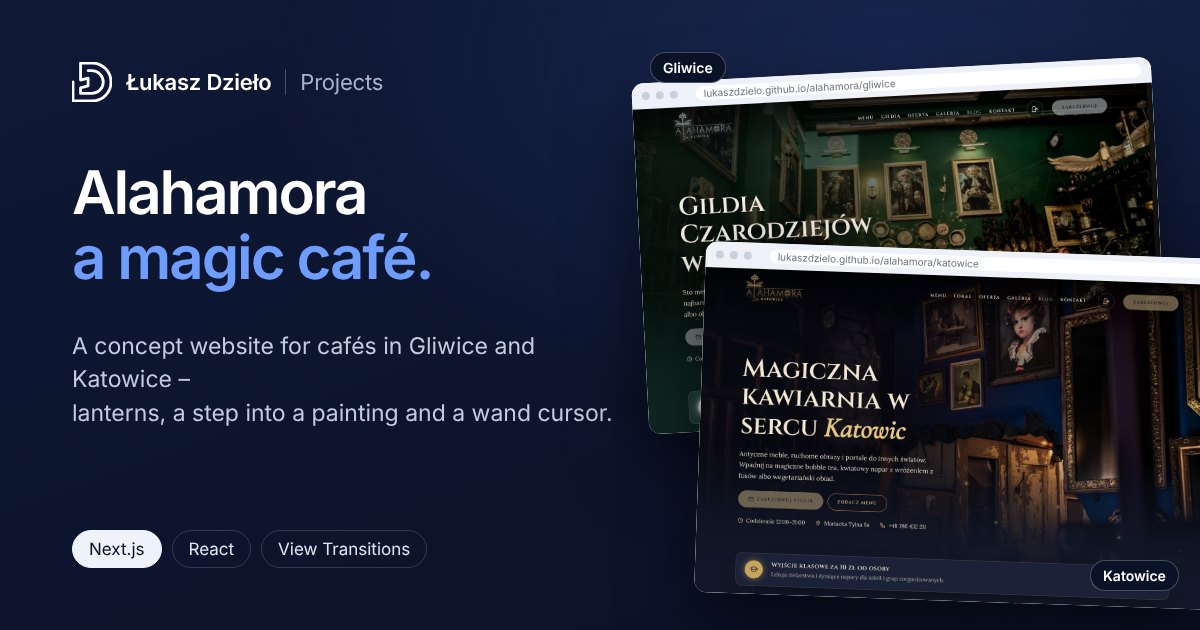
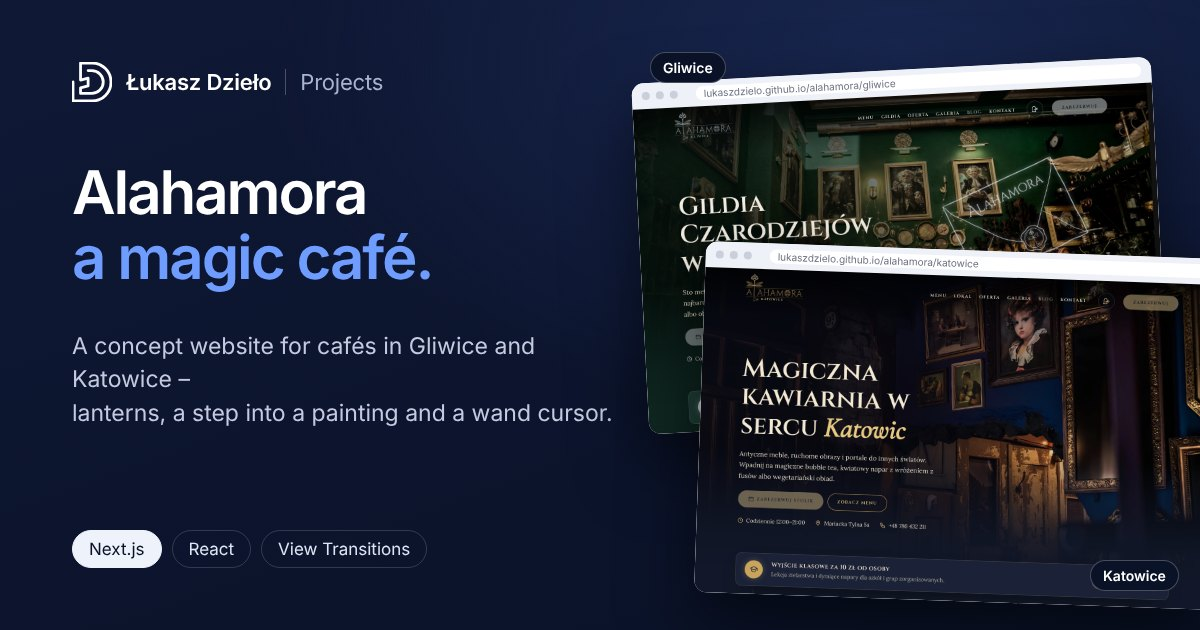
Alahamora screenshots in double resolution: all drawings visible in Gliwice, all lanterns lit in Katowice, sharper gallery preview

diff --git a/content/en/projects/2026/alahamora/index.md b/content/en/projects/2026/alahamora/index.md
@@ -63,16 +63,12 @@ galleryLead: Screenshots of the live project – click one to see it bigger.
 gallery:
   - src: /projects/2026/alahamora/page-gliwice.webp
     full: true
-    alt: Alahamora Gliwice – the whole page
-    caption: Gliwice – the whole page, from the entrance to the footer with the castle
-  - src: /projects/2026/alahamora/page-gliwice-revealed.webp
-    full: true
     alt: Alahamora Gliwice – the whole page with the drawings revealed
-    caption: Gliwice with the drawings revealed – usually you see them only in the light of the wand
+    caption: Gliwice – the whole page with all the drawings at once. On the website, you see them in the light of the wand
   - src: /projects/2026/alahamora/page-katowice.webp
     full: true
-    alt: Alahamora Katowice – the whole page
-    caption: Katowice – the whole page in navy and gold
+    alt: Alahamora Katowice – the whole page with the lanterns lit
+    caption: Katowice – the whole page with all the lanterns lit at once. On the website, the one the firefly has reached is lit
   - src: /projects/2026/alahamora/phone-katowice.webp
     device: phone
     alt: Alahamora Katowice on a phone

diff --git a/content/pl/projects/2026/alahamora/index.md b/content/pl/projects/2026/alahamora/index.md
@@ -63,16 +63,12 @@ galleryLead: Zrzuty z działającego projektu – kliknij zrzut, żeby go powię
 gallery:
   - src: /projects/2026/alahamora/page-gliwice.webp
     full: true
-    alt: Alahamora Gliwice – cała strona
-    caption: Gliwice – cała strona, od wejścia do stopki z zamkiem
-  - src: /projects/2026/alahamora/page-gliwice-revealed.webp
-    full: true
     alt: Alahamora Gliwice – cała strona z odsłoniętymi rysunkami
-    caption: Gliwice z odsłoniętymi rysunkami – zwykle widać je tylko w świetle różdżki
+    caption: Gliwice – cała strona z wszystkimi rysunkami naraz. Na stronie widać je w świetle różdżki
   - src: /projects/2026/alahamora/page-katowice.webp
     full: true
-    alt: Alahamora Katowice – cała strona
-    caption: Katowice – cała strona w granacie i złocie
+    alt: Alahamora Katowice – cała strona z zapalonymi latarniami
+    caption: Katowice – cała strona z wszystkimi latarniami zapalonymi naraz. Na stronie świeci ta, do której doleciał świetlik
   - src: /projects/2026/alahamora/phone-katowice.webp
     device: phone
     alt: Alahamora Katowice na telefonie
